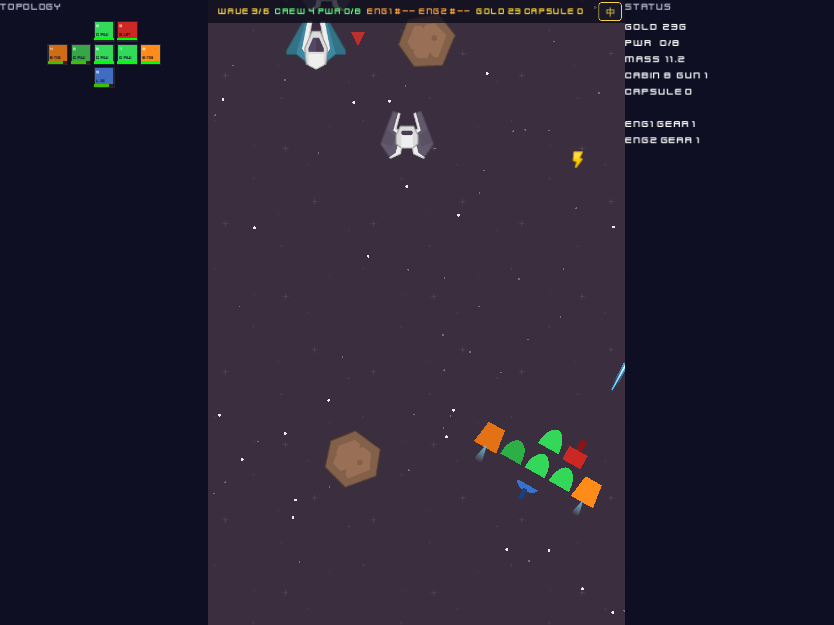
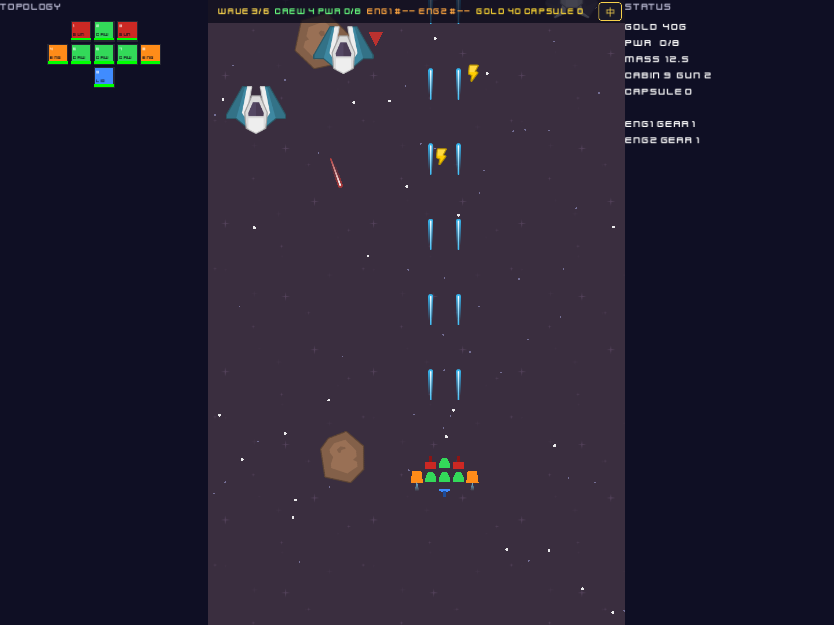
.

diff --git a/docs/games/wingload/0.0.1/index.html b/docs/games/wingload/0.0.1/index.html
@@ -111,7 +111,7 @@ body {
 
 		<script src="index.js"></script>
 		<script>
-const GODOT_CONFIG = {"args":[],"canvasResizePolicy":2,"emscriptenPoolSize":8,"ensureCrossOriginIsolationHeaders":true,"executable":"index","experimentalVK":false,"fileSizes":{"index.pck":5523080,"index.wasm":39514754},"focusCanvas":true,"gdextensionLibs":[],"godotPoolSize":4};
+const GODOT_CONFIG = {"args":[],"canvasResizePolicy":2,"emscriptenPoolSize":8,"ensureCrossOriginIsolationHeaders":true,"executable":"index","experimentalVK":false,"fileSizes":{"index.pck":5523192,"index.wasm":39514754},"focusCanvas":true,"gdextensionLibs":[],"godotPoolSize":4};
 const GODOT_THREADS_ENABLED = false;
 const engine = new Engine(GODOT_CONFIG);
 

diff --git a/static/games/wingload/0.0.1/index.html b/static/games/wingload/0.0.1/index.html
@@ -111,7 +111,7 @@ body {
 
 		<script src="index.js"></script>
 		<script>
-const GODOT_CONFIG = {"args":[],"canvasResizePolicy":2,"emscriptenPoolSize":8,"ensureCrossOriginIsolationHeaders":true,"executable":"index","experimentalVK":false,"fileSizes":{"index.pck":5523080,"index.wasm":39514754},"focusCanvas":true,"gdextensionLibs":[],"godotPoolSize":4};
+const GODOT_CONFIG = {"args":[],"canvasResizePolicy":2,"emscriptenPoolSize":8,"ensureCrossOriginIsolationHeaders":true,"executable":"index","experimentalVK":false,"fileSizes":{"index.pck":5523192,"index.wasm":39514754},"focusCanvas":true,"gdextensionLibs":[],"godotPoolSize":4};
 const GODOT_THREADS_ENABLED = false;
 const engine = new Engine(GODOT_CONFIG);
 
